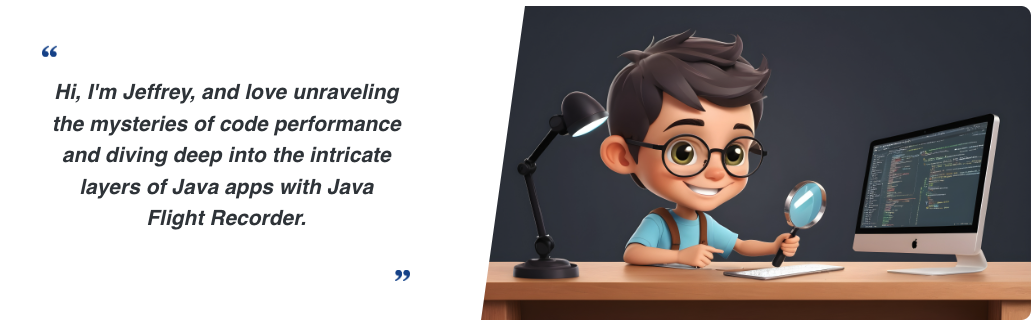
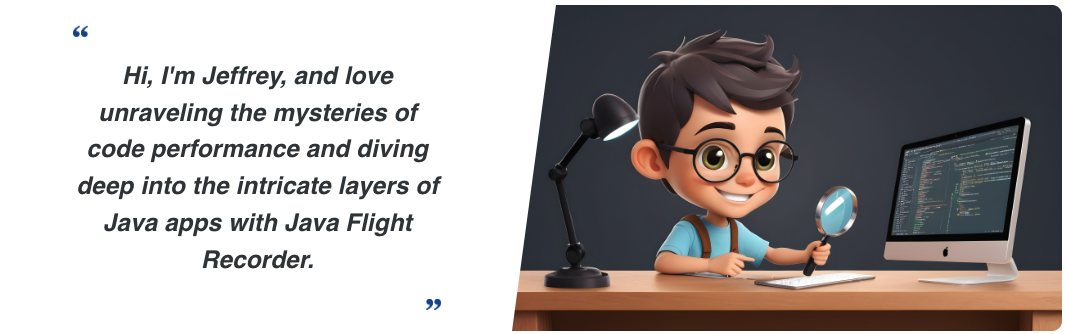
Readme.md header

diff --git a/pages/src/views/Index.vue b/pages/src/views/Index.vue
@@ -31,7 +31,7 @@ const moveTo = (targetSubPage) => {
           <img src="/quotation_marks.png" style="width: 15px; height: auto" class="rotate-180" alt=""/>
         </div>
 
-        <p class="font-semibold font-italic p-3 text-2xl leading-14">
+        <p class="font-semibold font-italic pt-3 text-3xl leading-12">
           Hi, I'm Jeffrey, and love unraveling the mysteries of code performance and diving deep into the intricate
           layers of Java apps with Java Flight Recorder.
         </p>
